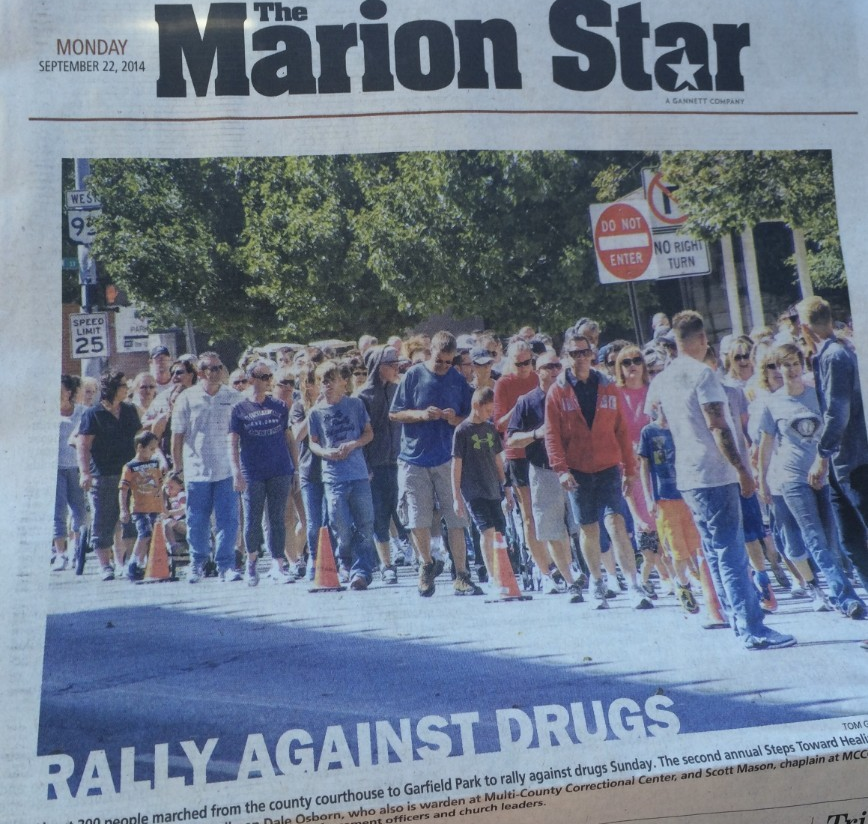
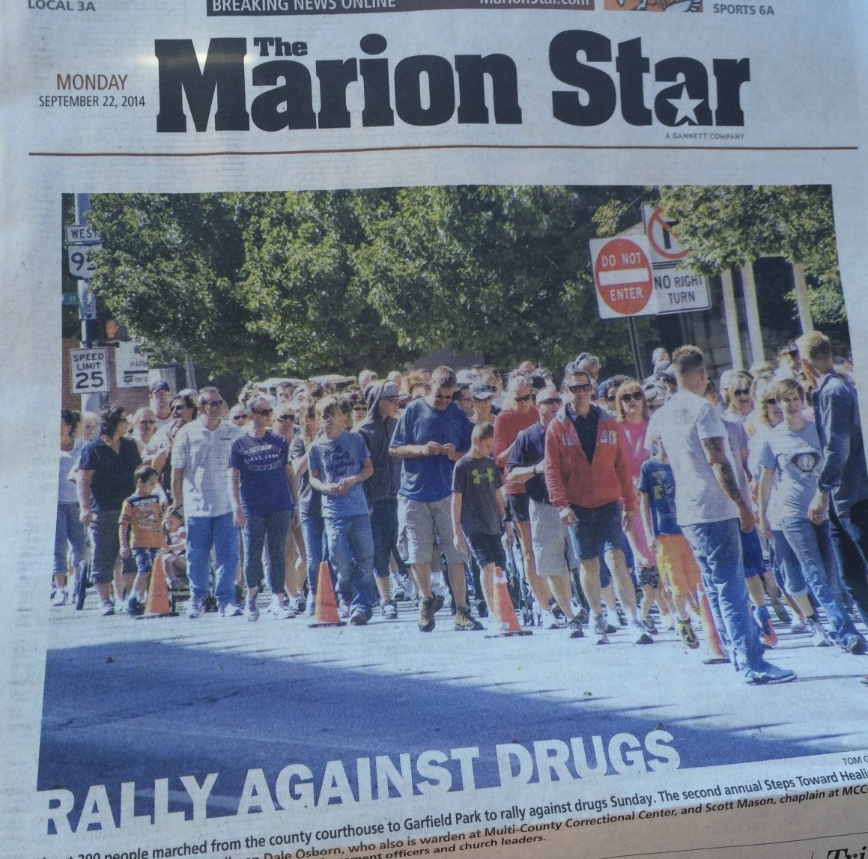
Show more Marion Star masthead and widen inline rally image layout.

diff --git a/src/components/DrugMarch.tsx b/src/components/DrugMarch.tsx
@@ -183,14 +183,17 @@ function ArticleBlock({ article }: { article: DrugMarchArticle }) {
 
             if (section.type === "image" && section.imageSrc) {
               return (
-                <figure key={`image-${index}`} className="overflow-hidden bg-black">
-                  <div className="relative aspect-[4/3] w-full sm:aspect-[3/2]">
+                <figure
+                  key={`image-${index}`}
+                  className="-mx-6 overflow-hidden bg-black lg:-mx-10"
+                >
+                  <div className="relative aspect-[16/9] w-full">
                     <Image
                       src={section.imageSrc}
                       alt={section.imageAlt ?? ""}
                       fill
                       unoptimized
-                      className="object-contain"
+                      className="object-cover object-top"
                       sizes="(max-width: 1024px) 100vw, 960px"
                     />
                   </div>
